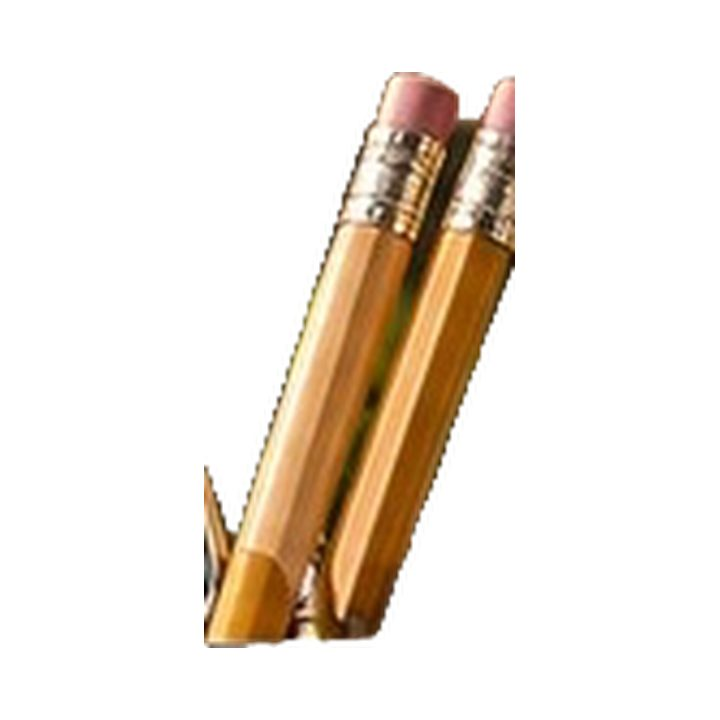
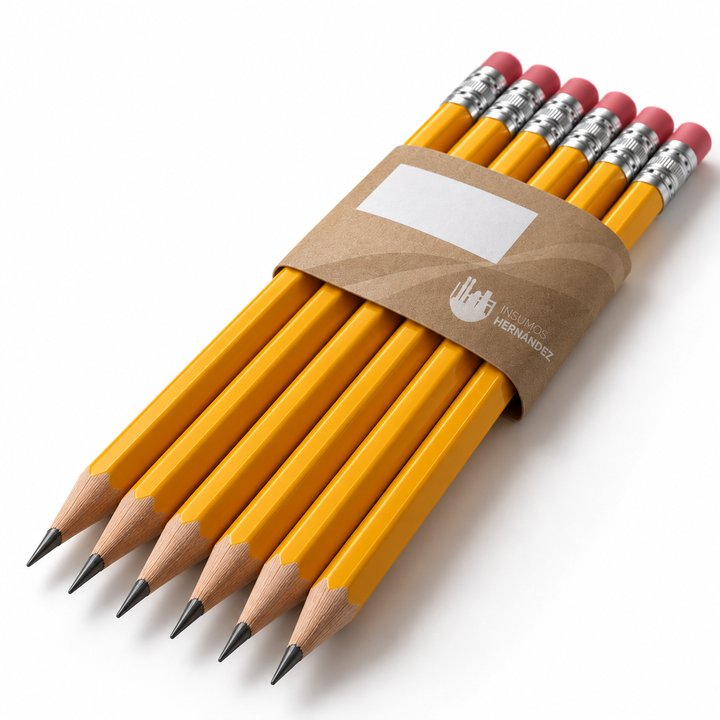
Reemplazar fotos de Papelería por versiones generadas dedicadas por producto
Las anteriores eran recortes de la foto de portada (con artefactos de
objetos vecinos). Se reemplazan por fotos generadas específicamente para
cada producto (fondo blanco limpio, mismo tratamiento que el resto del
catálogo) y se agrega la de Papel kraft, que antes no tenía ninguna.

diff --git a/tienda.html b/tienda.html
@@ -149,7 +149,7 @@ height="0" width="0" style="display:none;visibility:hidden"></iframe></noscript>
 
           <div class="ih-cat">
             <div class="ih-cat-title">Papelería y oficina 💡 agrégala a tu pedido</div>
-            <div class="ih-row" data-name="Papel kraft" data-unit="rollo(s)"><span class="ih-thumb ih-thumb--empty" aria-hidden="true"></span><span class="ih-row-name">Papel kraft<span class="ih-row-unit">por rollo</span></span><div class="ih-stepper"><button type="button" data-action="down">–</button><span class="ih-qty">0</span><button type="button" data-action="up">+</button></div></div>
+            <div class="ih-row" data-name="Papel kraft" data-unit="rollo(s)"><img class="ih-thumb" src="/assets/img/productos/papel-kraft.jpg" alt="Papel kraft" width="56" height="56" loading="lazy"><span class="ih-row-name">Papel kraft<span class="ih-row-unit">por rollo</span></span><div class="ih-stepper"><button type="button" data-action="down">–</button><span class="ih-qty">0</span><button type="button" data-action="up">+</button></div></div>
             <div class="ih-row" data-name="Resmas de papel" data-unit="unidad(es)"><img class="ih-thumb" src="/assets/img/productos/resmas-papel.jpg" alt="Resmas de papel" width="56" height="56" loading="lazy"><span class="ih-row-name">Resmas de papel<span class="ih-row-unit">por unidad</span></span><div class="ih-stepper"><button type="button" data-action="down">–</button><span class="ih-qty">0</span><button type="button" data-action="up">+</button></div></div>
             <div class="ih-row" data-name="Lápices" data-unit="paquete(s)"><img class="ih-thumb" src="/assets/img/productos/lapices.jpg" alt="Lápices" width="56" height="56" loading="lazy"><span class="ih-row-name">Lápices<span class="ih-row-unit">por paquete</span></span><div class="ih-stepper"><button type="button" data-action="down">–</button><span class="ih-qty">0</span><button type="button" data-action="up">+</button></div></div>
             <div class="ih-row" data-name="Lapiceros" data-unit="paquete(s)"><img class="ih-thumb" src="/assets/img/productos/lapiceros.jpg" alt="Lapiceros" width="56" height="56" loading="lazy"><span class="ih-row-name">Lapiceros<span class="ih-row-unit">por paquete</span></span><div class="ih-stepper"><button type="button" data-action="down">–</button><span class="ih-qty">0</span><button type="button" data-action="up">+</button></div></div>

diff --git a/categorias/papeleria.html b/categorias/papeleria.html
@@ -92,7 +92,7 @@ height="0" width="0" style="display:none;visibility:hidden"></iframe></noscript>
             <thead><tr><th>Producto</th><th>Presentación</th><th>Uso recomendado</th><th></th></tr></thead>
             <tbody>
               <tr>
-                <td><span class="spec-name-col"><b>Papel kraft</b></span></td>
+                <td><img class="spec-thumb" src="/assets/img/productos/papel-kraft.jpg" alt="Papel kraft" width="44" height="44" loading="lazy"><span class="spec-name-col"><b>Papel kraft</b></span></td>
                 <td>Por rollo</td>
                 <td>Envoltura y forrado de paquetes o superficies de trabajo.</td>
                 <td><a class="btn btn-primary" style="padding:8px 14px; font-size:13px;" href="https://wa.me/573104032401?text=Hola%2C%20quiero%20cotizar%20papel%20kraft" data-producto="Papel kraft">Cotizar</a></td>
